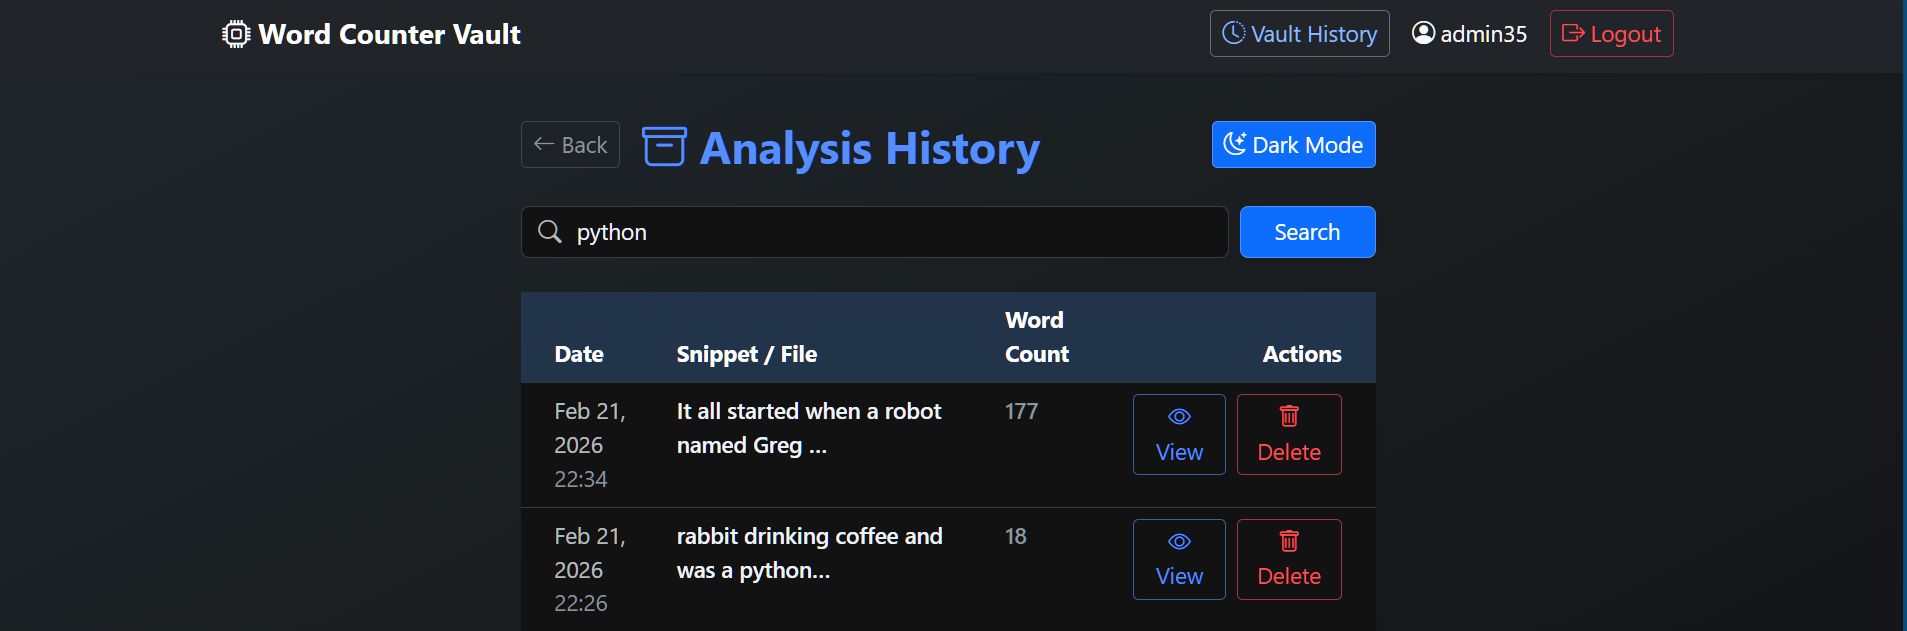
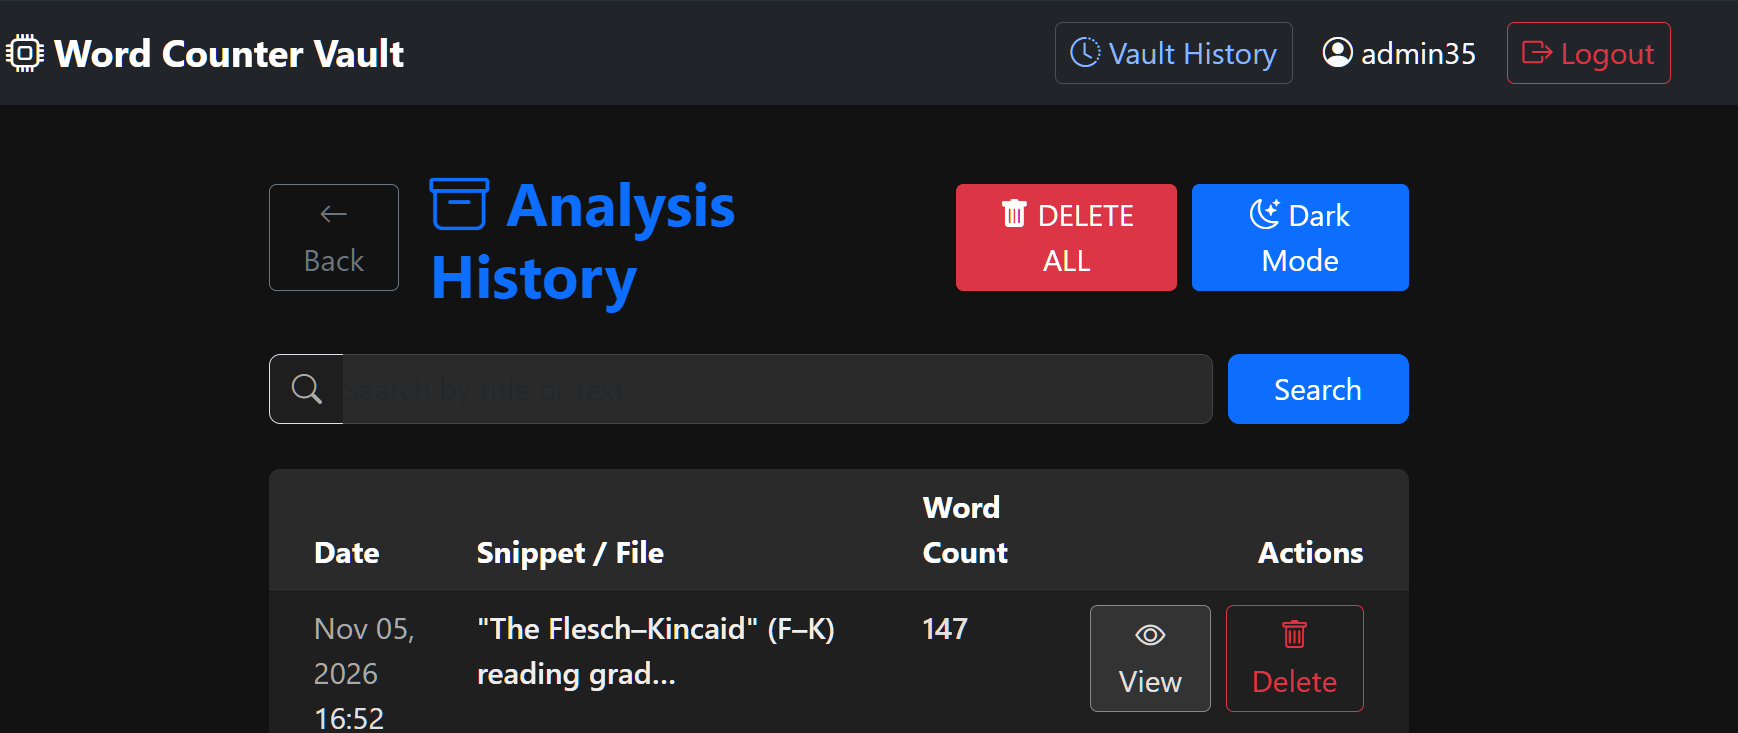
Updated Readme.md and codebase docstrings.

diff --git a/counter/views.py b/counter/views.py
@@ -13,8 +13,8 @@ from django.templatetags.static import static
 
 from .models import AnalysisRecord
 from .services import exporters, word_selectors
-from .services.quality_insights import analyze_quality, get_basic_metrics
-from .services.summarizer import generate_summary
+from .services.quality_insights import analyse_quality, get_basic_metrics
+from .services.summariser import generate_summary
 from .services.text_extractors import get_text_from_uploaded_file
 
 
@@ -41,7 +41,7 @@ def counter(request):
 
             if text:
                 messages.success(
-                    request, f"'{uploaded_file.name}' analyzed successfully!"
+                    request, f"'{uploaded_file.name}' analysed successfully!"
                 )
             else:
                 messages.error(request, f"Unsupported file type: {uploaded_file.name}")
@@ -59,7 +59,7 @@ def counter(request):
         # 2. DELEGATE LINGUISTIC MATH TO SERVICES
         metrics = get_basic_metrics(text)
         summary_data = generate_summary(text)
-        quality_data = analyze_quality(text)
+        quality_data = analyse_quality(text)
 
         # Hook up the DuckDB.
 
@@ -146,7 +146,7 @@ def register(request):
         if form.is_valid():
             # Save the new user to the database.
             form.save()
-            # Get the username to personalize the success message.
+            # Get the username to personalise the success message.
             username = form.cleaned_data.get("username")
             messages.success(
                 request, 

diff --git a/counter/management/commands/seed_stress_data.py b/counter/management/commands/seed_stress_data.py
@@ -14,8 +14,8 @@ from dotenv import load_dotenv
 from faker import Faker
 
 from counter.models import AnalysisRecord
-from counter.services.quality_insights import analyze_quality, get_basic_metrics
-from counter.services.summarizer import generate_summary
+from counter.services.quality_insights import analyse_quality, get_basic_metrics
+from counter.services.summariser import generate_summary
 
 load_dotenv()
 
@@ -65,7 +65,7 @@ class Command(BaseCommand):
             text = " ".join(fake.paragraphs(nb=random.randint(3, 8)))
             metrics = get_basic_metrics(text)
             summary_data = generate_summary(text)
-            quality_data = analyze_quality(text)
+            quality_data = analyse_quality(text)
 
             records_to_create.append(
                 AnalysisRecord(

diff --git a/counter/services/quality_insights.py b/counter/services/quality_insights.py
@@ -21,7 +21,6 @@ def count_syllables(word: str) -> int:
     return max(1, syllables)
 
 
-
 def get_basic_metrics(text: str) -> dict:
     """Calculates core counters and reading time."""
 
@@ -53,7 +52,7 @@ def get_basic_metrics(text: str) -> dict:
     }
 
 
-def analyze_quality(text: str) -> dict:
+def analyse_quality(text: str) -> dict:
     """Evaluate the input text and return metrics including readability scores."""
 
     # Split into sequences.

diff --git a/counter/services/exporters.py b/counter/services/exporters.py
@@ -22,7 +22,7 @@ def get_export_data(user, pk=None, session=None):
 
     # Prevents 'NoneType' errors if the function is called without a session
     if session is None:
-        # Initialize as empty dict so
+        # Initialise as empty dict so
         # .get() calls safely return None instead of crashing
         session = {}
 

diff --git a/counter/services/seed_origins.py b/counter/services/seed_origins.py
@@ -11,6 +11,7 @@ from django.conf import settings
 os.environ.setdefault('DJANGO_SETTINGS_MODULE', 'wordcounterapp.settings')
 django.setup()
 
+
 def seed_vault():
     """Populate the database with data and specific configurations."""
 

diff --git a/counter/apps.py b/counter/apps.py
@@ -2,5 +2,7 @@ from django.apps import AppConfig
 
 
 class CounterConfig(AppConfig):
+    """Application configuration for the Counter app."""
+
     default_auto_field = "django.db.models.BigAutoField"
     name = "counter"

diff --git a/README.md b/README.md
@@ -16,12 +16,13 @@
 
 </p>
 
-An interactive intelligence dashboard and automated reporting tool built to analyze linguistic patterns and global etymology. This project transforms raw text input into actionable forensic insights using a modern Python stack.
+An interactive intelligence dashboard and automated reporting tool built to analyse linguistic patterns and global etymology. This project transforms raw text input into actionable forensic insights using a modern Python stack.
 
 ---
 
 ## 📑 Table of Contents
 
+- [Why This Project Was Built](#-why-this-project-was-built)
 - [Project Walkthrough](#-project-walkthrough)
 - [Screenshots](#-screenshots)
 - [Project Architecture](#-project-architecture)
@@ -32,6 +33,12 @@ An interactive intelligence dashboard and automated reporting tool built to anal
 - [Quality Assurance & Testing](#-quality-assurance--testing)
 - [Acknowledgments](#-acknowledgments)
 - [Roadmap Features](#-roadmap-features)
+
+---
+
+## 🧠 Why This Project Was Built
+
+This project was built to explore text analysis beyond simple word counts. It combines linguistic analysis, readability scoring, word origins, geospatial visualisation, and automated reporting into a single application, while serving as a practical showcase of modern Python and Django development.
 
 ---
 
@@ -56,19 +63,34 @@ See the full gallery here:
   <summary><b>Click to expand screenshots</b></summary>
   <br>
 
+- Analysis view after inputting text into the text box
  ![Main Dashboard](screenshots/user_UI.png)
  ![Main Dashboard](screenshots/user_UI2.png)
+---
+- Geographic map of where words originate from.
  ![Main Dashboard Map](screenshots/map_of_words_history.png)
  ![Main Dashboard Map](screenshots/map.png)
+---
+- login view screen
  ![Main Login](screenshots/login_view.png)
+---
+- PDF report
  ![PDF Report](screenshots/pdf_report.png)
+- Word document report
  ![Word Document](screenshots/word_document.png)
+---
+- Top ten most common words identified from the text input
  ![Chart View](screenshots/chart.png)
+---
+- In Depth view of entered text
  ![In-Depth UI](screenshots/indepth_UI.png)
- - Text Analysis view
+---
+ - Text Analysis history view
  ![Main Dashboard](screenshots/analysis_history.png)
+---
  - Delete Buttons
  ![View Delete Buttons](screenshots/view_delete_buttons.png)
+---
  - Readability Score Guide 
  - Flesch Reading Ease (0–100 scale):
  High score: Easy to read (plain English, blogs, general audiences).
@@ -119,7 +141,7 @@ Word-Counter-Vault/
 │   │   ├── analysis.py
 │   │   ├── exporters.py
 │   │   ├── quality_insights.py
-│   │   ├── summarizer.py
+│   │   ├── summariser.py
 │   │   ├── text_extractors.py
 │   │   ├── word_selectors.py
 │   │   ├── seed_origins.py
@@ -170,7 +192,7 @@ Word-Counter-Vault/
 ## 📁 File Structure
 
 * `word_counter/settings.py`: Core configuration for the Django environment.
-* `counter/views.py`: Logic for text processing, regex normalization, and dashboard rendering.
+* `counter/views.py`: Logic for text processing, regex normalisation, and dashboard rendering.
 * `counter/services/seed_origins.py`: Data pipeline script for ingesting the global word library.
 * `counter/services/word_data.json`: The "Source of Truth" containing 500+ global etymology records.
 * `word_vault_analytics.duckdb`: High-performance database for geospatial word lookups.
@@ -185,7 +207,7 @@ Word-Counter-Vault/
 * **SQLite:** For persistent user history and session management.
 * **Folium/Leaflet:** For interactive geospatial mapping.
 * **WeasyPrint / python-docx:** For automated forensic report creation.
-* **Regex:** For high-speed text normalization and cleaning.
+* **Regex:** For high-speed text normalisation and cleaning.
 
 ---
 
@@ -218,9 +240,9 @@ This project implements a comprehensive automated testing suite using **Pytest**
 
 ### Test Coverage:
 
-* **Linguistic Logic:** Validates regex normalization, word frequency calculations, and lexical diversity metrics.
+* **Linguistic Logic:** Validates regex normalisation, word frequency calculations, and lexical diversity metrics.
 * **Security & Permissions:** Ensures strict object-level access control (e.g., users cannot view or delete others' analysis history).
-* **Service Layer & Mocking:** Utilizes `pytest-mock` to simulate **DuckDB** OLAP connections, allowing for high-speed testing without disk I/O dependency.
+* **Service Layer & Mocking:** Utilises `pytest-mock` to simulate **DuckDB** OLAP connections, allowing for high-speed testing without disk I/O dependency.
 * **File Extraction:** Verifies robust handling of `.txt`, `.pdf`, and `.docx` uploads using Django's `SimpleUploadedFile`.
 
 ### Running Tests Locally:
@@ -247,8 +269,8 @@ pytest
 - [x] **Readability Metrics:** Add Flesch Reading Ease, and Gunning Fog Index calculations for deeper writing quality assessment.
 - [ ] **Comparative Analysis:** Compare two text submissions side-by-side to identify differences in vocabulary, lexical diversity, readability, and writing style.
 - [ ] **Custom Stopword Management:** Allow users to create personal stopword lists to exclude common or domain-specific words from analysis results.
-- [ ] **Analysis Tags & Collections:** Enable users to organize saved analyses into categories, folders, or tagged collections for improved vault management.
-- [ ] **Interactive Word Trends:** Track frequently used words across a user's analysis history to visualize vocabulary evolution over time.
+- [ ] **Analysis Tags & Collections:** Enable users to organiae saved analyses into categories, folders, or tagged collections for improved vault management.
+- [ ] **Interactive Word Trends:** Track frequently used words across a user's analysis history to visualise vocabulary evolution over time.
 - [ ] **Enhanced Geospatial Mapping:** Interactive etymology origins via `Plotly/Mapbox`.
 
 ---
